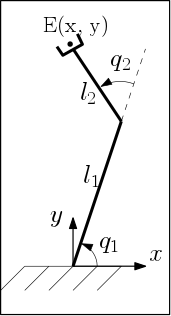
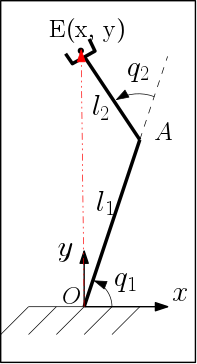
analytical and geom jacobian

diff --git a/_posts/robotics/2019-05-08-Jacobian.md b/_posts/robotics/2019-05-08-Jacobian.md
@@ -17,6 +17,7 @@ Most of the robots have either revolute or prismatic joints or a combinations of
 \end{equation}
 
 where $$v_e, ~\dot{q}$$ and $$J$$  are respectively the velocity of the end-effector (` a vector of dimension 6 x 1`), velocity of the joints (`of dimension n x 1`) and Jacobian (`of dimension 6 x n`). Imagine a human arm and when the elbow joint is moved (keeping all other joints fixed), the fingers of our hand starts moving (or in more general the `end-effector` for a robot). If this process is repeated for other joints, it can be seen that each joint contributes to the velocity of the `end-effector`. Jacobian quantifies each of these contributions in the form of a matrix and is dependant on the current joint position (`q`). It is easy to derive the Jacobian for a simple case to understand this idea
+
 {% include figure.html path="assets/img/robotics/jacobian.png" class="img-fluid rounded z-depth-1" zoomable=true %}
 
 The end-effector co-ordinates can be found out as
@@ -54,5 +55,4 @@ Rearranging the above, we can write the same equation as
 \end{align}
 **Note:** This is a planar manipulator and hence the dimension of end-effector velocity is `3 x 1`. <br/>
 
-So to conclude, the motion of joint 1 ($$q_1$$) would induce an `x` direction velocity of $$ - l_1 \sin(q_1) - l_2 \sin(q_1 + q_2) $$ to the end-effector and likewise in other directions
-
+From the above it can be seen that the motion of joint 1 ($$q_1$$) would induce an `x` direction velocity of $$ - l_1 \sin(q_1) - l_2 \sin(q_1 + q_2) $$ to the end-effector and likewise in other directions. This Jacobian matrix so obtained is called the `analytical jacobian`. For most real world cases, analytical jacobian is hard to compute and the most common approach is to compute what is called the `geometrical jacobian`. This main underlying concept of computing the geometrical jacobian is the equation $$ v = r \times \omega $$. In the above example, the instantaneous motion of joint 1 causes the end-effector to have a velocity of $$ \hat{OE} \times \dot{q}_1 $$. Similarly $$ \dot{q}_2 $$ contributes $$ l_2 \times \dot{q}_2 $$ to the end-effector velocity.
